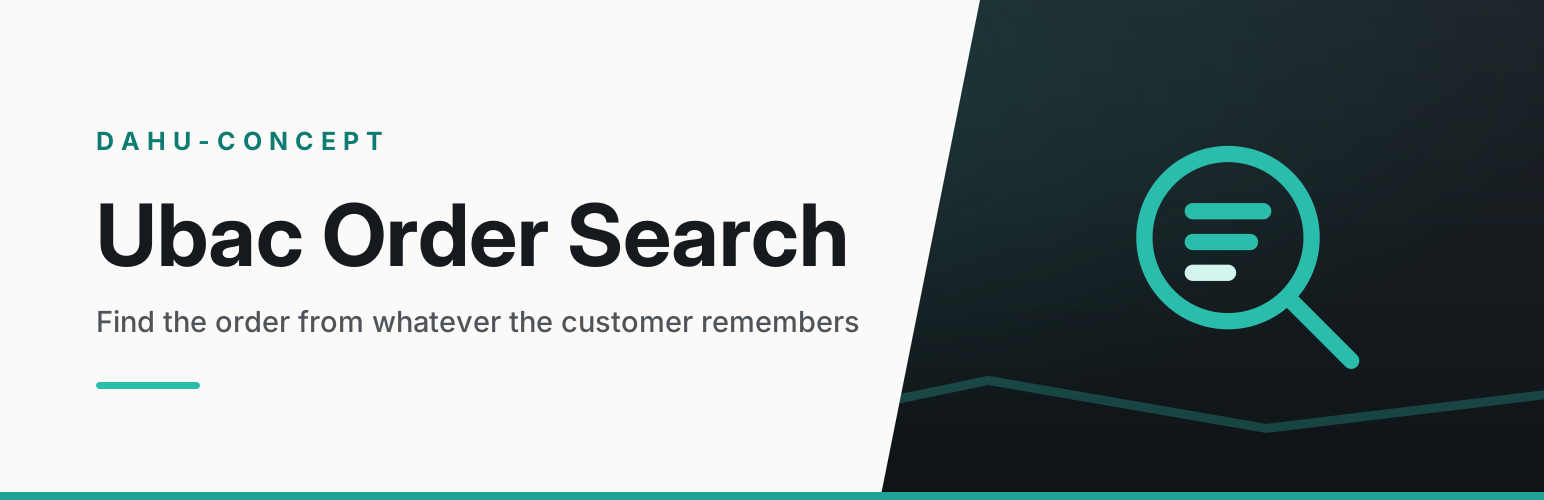
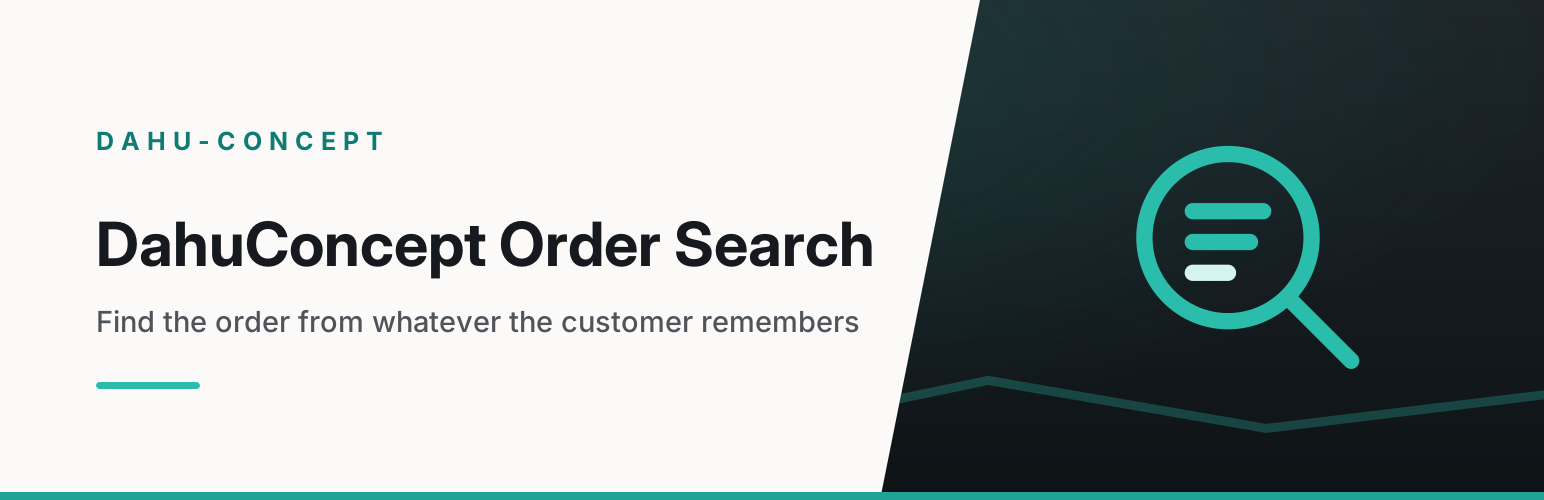
Become DahuConcept: slug, display name and text domain
The directory refused "Dahu" as a leading name because the term is shared,
then refused "Ubac" because it belongs to someone else. Both refusals ask
the same question — can you prove this term is yours? — and the only
answer that holds is the registered company name, which is also the
wordpress.org account that submits these plugins. Measured on TMview in
exact match: dahuconcept, zero records, against 252 for ubac and 122 for
dahu. All fifteen target slugs are free in the directory.

The slug is now exactly what the display name derives, for every one of
the fifteen. Twelve of them had a shorter slug than their name produced,
which meant twelve manual permalink requests and twelve chances for
another round trip. There are none left.

Changed: display name, slug, text domain, the language files and their
Project-Id-Version, the readme title, the artwork, and the folder.

NOT changed, deliberately: class and function prefixes, option names,
admin page slugs, asset handles, CSS classes, REST namespaces, the Action
Scheduler group and the "source" value this plugin writes into Stripe
metadata. Those are internal or persisted identifiers; the directory's
guideline 17 does not reach them, and renaming them would have broken
in-flight payments and live stylesheets for nothing. The text domain was
replaced by TOKEN POSITION rather than by string, because the old slug is
also an option name and an admin page slug.
[…]

Changed region(s): [[0.0622, 0.39, 0.5907, 0.54]]

diff --git a/includes/class-ubac-search-settings.php b/includes/class-ubac-search-settings.php
@@ -34,7 +34,7 @@ class Ubac_Search_Settings {
 			$toggles[ $id ] = $source['label'];
 		}
 
-		$toggles['linked_orders'] = __( 'Linked orders — also show orders whose meta points at a found order, and the orders a found order points at (returns, replacements, renewals)', 'ubac-search' );
+		$toggles['linked_orders'] = __( 'Linked orders — also show orders whose meta points at a found order, and the orders a found order points at (returns, replacements, renewals)', 'dahuconcept-order-search' );
 
 		return $toggles;
 	}
@@ -181,8 +181,8 @@ class Ubac_Search_Settings {
 	public static function register_page() {
 		add_submenu_page(
 			'woocommerce',
-			__( 'Order search', 'ubac-search' ),
-			__( 'Order search', 'ubac-search' ),
+			__( 'Order search', 'dahuconcept-order-search' ),
+			__( 'Order search', 'dahuconcept-order-search' ),
 			self::CAPABILITY,
 			UBAC_SEARCH_PAGE,
 			array( __CLASS__, 'render_page' )
@@ -235,7 +235,7 @@ class Ubac_Search_Settings {
 	 */
 	public static function render_page() {
 		if ( ! current_user_can( self::CAPABILITY ) ) {
-			wp_die( esc_html__( 'You do not have permission to change these settings.', 'ubac-search' ) );
+			wp_die( esc_html__( 'You do not have permission to change these settings.', 'dahuconcept-order-search' ) );
 		}
 
 		$settings = self::get();
@@ -243,8 +243,8 @@ class Ubac_Search_Settings {
 		?>
 		<div class="wrap ubac-ui">
 			<div class="ubac-ui-head">
-				<h1 class="ubac-ui-head__title"><?php esc_html_e( 'Order search', 'ubac-search' ); ?></h1>
-				<p class="ubac-ui-head__sub"><?php esc_html_e( 'Finds an order by what the customer tells you on the telephone.', 'ubac-search' ); ?></p>
+				<h1 class="ubac-ui-head__title"><?php esc_html_e( 'Order search', 'dahuconcept-order-search' ); ?></h1>
+				<p class="ubac-ui-head__sub"><?php esc_html_e( 'Finds an order by what the customer tells you on the telephone.', 'dahuconcept-order-search' ); ?></p>
 			</div>
 
 			<?php
@@ -264,10 +264,10 @@ class Ubac_Search_Settings {
 				<div class="ubac-ui-card">
 				<table class="form-table" role="presentation">
 					<tr>
-						<th scope="row"><?php esc_html_e( 'Sources', 'ubac-search' ); ?></th>
+						<th scope="row"><?php esc_html_e( 'Sources', 'dahuconcept-order-search' ); ?></th>
 						<td>
 							<fieldset>
-								<legend class="screen-reader-text"><?php esc_html_e( 'Sources', 'ubac-search' ); ?></legend>
+								<legend class="screen-reader-text"><?php esc_html_e( 'Sources', 'dahuconcept-order-search' ); ?></legend>
 								<?php foreach ( self::toggles() as $key => $label ) : ?>
 									<label class="ubac-search__check">
 										<input type="checkbox" name="<?php echo esc_attr( $name ); ?>[sources][<?php echo esc_attr( $key ); ?>]" value="1" <?php checked( ! empty( $settings['sources'][ $key ] ) ); ?> />
@@ -279,53 +279,53 @@ class Ubac_Search_Settings {
 					</tr>
 
 					<tr>
-						<th scope="row"><label for="ubac-search-order-meta"><?php esc_html_e( 'Order meta keys', 'ubac-search' ); ?></label></th>
+						<th scope="row"><label for="ubac-search-order-meta"><?php esc_html_e( 'Order meta keys', 'dahuconcept-order-search' ); ?></label></th>
 						<td>
 							<textarea id="ubac-search-order-meta" name="<?php echo esc_attr( $name ); ?>[order_meta_keys]" rows="4" class="large-text code"><?php echo esc_textarea( $settings['order_meta_keys'] ); ?></textarea>
 							<p class="description">
-								<?php esc_html_e( 'One key per line. A tracking number, an invoice number, a reference from another system — anything stored on the order that somebody might search for.', 'ubac-search' ); ?>
-								<?php esc_html_e( 'To find the key a value is stored under, open an order and look at its custom fields.', 'ubac-search' ); ?>
+								<?php esc_html_e( 'One key per line. A tracking number, an invoice number, a reference from another system — anything stored on the order that somebody might search for.', 'dahuconcept-order-search' ); ?>
+								<?php esc_html_e( 'To find the key a value is stored under, open an order and look at its custom fields.', 'dahuconcept-order-search' ); ?>
 							</p>
 						</td>
 					</tr>
 
 					<tr>
-						<th scope="row"><label for="ubac-search-item-meta"><?php esc_html_e( 'Order line meta keys', 'ubac-search' ); ?></label></th>
+						<th scope="row"><label for="ubac-search-item-meta"><?php esc_html_e( 'Order line meta keys', 'dahuconcept-order-search' ); ?></label></th>
 						<td>
 							<textarea id="ubac-search-item-meta" name="<?php echo esc_attr( $name ); ?>[item_meta_keys]" rows="3" class="large-text code"><?php echo esc_textarea( $settings['item_meta_keys'] ); ?></textarea>
 							<p class="description">
-								<?php esc_html_e( 'One key per line. A single asterisk means every visible line meta — the internal ones are always skipped, because they hold bare numbers that would make any number match half the shop.', 'ubac-search' ); ?>
+								<?php esc_html_e( 'One key per line. A single asterisk means every visible line meta — the internal ones are always skipped, because they hold bare numbers that would make any number match half the shop.', 'dahuconcept-order-search' ); ?>
 							</p>
 						</td>
 					</tr>
 
 					<tr>
-						<th scope="row"><label for="ubac-search-link-meta"><?php esc_html_e( 'Linked order meta keys', 'ubac-search' ); ?></label></th>
+						<th scope="row"><label for="ubac-search-link-meta"><?php esc_html_e( 'Linked order meta keys', 'dahuconcept-order-search' ); ?></label></th>
 						<td>
 							<textarea id="ubac-search-link-meta" name="<?php echo esc_attr( $name ); ?>[link_meta_keys]" rows="3" class="large-text code"><?php echo esc_textarea( $settings['link_meta_keys'] ); ?></textarea>
 							<p class="description">
-								<?php esc_html_e( 'One key per line. Keys whose value is another order\'s number. Both directions are followed, because only one of them is ever stored.', 'ubac-search' ); ?>
+								<?php esc_html_e( 'One key per line. Keys whose value is another order\'s number. Both directions are followed, because only one of them is ever stored.', 'dahuconcept-order-search' ); ?>
 							</p>
 						</td>
 					</tr>
 
 					<tr>
-						<th scope="row"><label for="ubac-search-min"><?php esc_html_e( 'Shortest search term', 'ubac-search' ); ?></label></th>
+						<th scope="row"><label for="ubac-search-min"><?php esc_html_e( 'Shortest search term', 'dahuconcept-order-search' ); ?></label></th>
 						<td>
 							<input id="ubac-search-min" type="number" min="2" max="20" name="<?php echo esc_attr( $name ); ?>[min_length]" value="<?php echo esc_attr( (string) $settings['min_length'] ); ?>" class="small-text" />
-							<p class="description"><?php esc_html_e( 'Below this many characters the extra sources do not run, and the native search is left to answer on its own.', 'ubac-search' ); ?></p>
+							<p class="description"><?php esc_html_e( 'Below this many characters the extra sources do not run, and the native search is left to answer on its own.', 'dahuconcept-order-search' ); ?></p>
 						</td>
 					</tr>
 
 					<tr>
-						<th scope="row"><?php esc_html_e( 'WooCommerce correction', 'ubac-search' ); ?></th>
+						<th scope="row"><?php esc_html_e( 'WooCommerce correction', 'dahuconcept-order-search' ); ?></th>
 						<td>
 							<label class="ubac-search__check">
 								<input type="checkbox" name="<?php echo esc_attr( $name ); ?>[fix_order_id_filter]" value="1" <?php checked( ! empty( $settings['fix_order_id_filter'] ) ); ?> />
-								<?php esc_html_e( 'Return nothing when the "Order ID" filter is used with text that is not a number', 'ubac-search' ); ?>
+								<?php esc_html_e( 'Return nothing when the "Order ID" filter is used with text that is not a number', 'dahuconcept-order-search' ); ?>
 							</label>
 							<p class="description ubac-search__caution">
-								<?php esc_html_e( 'Left alone, WooCommerce shows every order in the shop instead, which reads as a search that stopped working. Switch this off to get WooCommerce\'s own behaviour back.', 'ubac-search' ); ?>
+								<?php esc_html_e( 'Left alone, WooCommerce shows every order in the shop instead, which reads as a search that stopped working. Switch this off to get WooCommerce\'s own behaviour back.', 'dahuconcept-order-search' ); ?>
 							</p>
 						</td>
 					</tr>

diff --git a/dahuconcept-order-search.php b/dahuconcept-order-search.php
@@ -1,13 +1,13 @@
 <?php
 /**
- * Plugin Name:       Ubac Order Search
+ * Plugin Name:       DahuConcept Order Search
  * Description:       Finds the orders WooCommerce's own search misses: a company name on a B2B order with no customer name, a phone number, an order note, a tracking or invoice number held in order meta, a value on an order line. Results are added to the native search, never substituted for it, and ranked by how well they match. Other plugins can register sources of their own.
  * Version:           1.1.3
  * Author:            Hugo Vial-Jaime
  * Author URI:        https://dahu-concept.fr
  * License:           MIT
  * License URI:       https://opensource.org/licenses/MIT
- * Text Domain:       ubac-search
+ * Text Domain:       dahuconcept-order-search
  * Domain Path:       /languages
  * Requires at least: 6.2
  * Requires PHP:      7.4
@@ -90,7 +90,7 @@ add_action(
 
 					printf(
 						'<div class="notice notice-warning"><p>%s</p></div>',
-						esc_html__( 'Ubac Order Search needs WooCommerce. It is doing nothing until WooCommerce is active.', 'ubac-search' )
+						esc_html__( 'DahuConcept Order Search needs WooCommerce. It is doing nothing until WooCommerce is active.', 'dahuconcept-order-search' )
 					);
 				}
 			);
@@ -123,7 +123,7 @@ add_filter(
 			sprintf(
 				'<a href="%s">%s</a>',
 				esc_url( admin_url( 'admin.php?page=' . UBAC_SEARCH_PAGE ) ),
-				esc_html__( 'Settings', 'ubac-search' )
+				esc_html__( 'Settings', 'dahuconcept-order-search' )
 			)
 		);
 
@@ -158,8 +158,8 @@ add_action(
 		Ubac_Welcome::register(
 			array(
 				'slug'       => 'ubac-search',
-				'name'       => __( 'Order search', 'ubac-search' ),
-				'tagline'    => __( 'Finds an order by what the customer tells you on the telephone.', 'ubac-search' ),
+				'name'       => __( 'Order search', 'dahuconcept-order-search' ),
+				'tagline'    => __( 'Finds an order by what the customer tells you on the telephone.', 'dahuconcept-order-search' ),
 				'file'       => UBAC_SEARCH_FILE,
 				'version'    => UBAC_SEARCH_VERSION,
 				'textdomain' => 'ubac-search',
@@ -178,24 +178,24 @@ add_action(
 				 * no text domain of its own.
 				 */
 				'strings'    => array(
-					'next'   => __( 'Next', 'ubac-search' ),
-					'done'   => __( 'Done', 'ubac-search' ),
-					'skip'   => __( 'Skip', 'ubac-search' ),
-					'of'     => __( 'of', 'ubac-search' ),
-					'denied' => __( 'You are not allowed to view this page.', 'ubac-search' ),
+					'next'   => __( 'Next', 'dahuconcept-order-search' ),
+					'done'   => __( 'Done', 'dahuconcept-order-search' ),
+					'skip'   => __( 'Skip', 'dahuconcept-order-search' ),
+					'of'     => __( 'of', 'dahuconcept-order-search' ),
+					'denied' => __( 'You are not allowed to view this page.', 'dahuconcept-order-search' ),
 				),
 				'points'     => array(
 				array(
-					'title' => __( 'Any detail', 'ubac-search' ),
-					'text'  => __( 'A surname, part of an address, a telephone number, a serial.', 'ubac-search' ),
+					'title' => __( 'Any detail', 'dahuconcept-order-search' ),
+					'text'  => __( 'A surname, part of an address, a telephone number, a serial.', 'dahuconcept-order-search' ),
 				),
 				array(
-					'title' => __( 'Both stores', 'ubac-search' ),
-					'text'  => __( 'Works whichever order storage the shop is on.', 'ubac-search' ),
+					'title' => __( 'Both stores', 'dahuconcept-order-search' ),
+					'text'  => __( 'Works whichever order storage the shop is on.', 'dahuconcept-order-search' ),
 				),
 				array(
-					'title' => __( 'Fast where it matters', 'ubac-search' ),
-					'text'  => __( 'Built for somebody with a customer waiting.', 'ubac-search' ),
+					'title' => __( 'Fast where it matters', 'dahuconcept-order-search' ),
+					'text'  => __( 'Built for somebody with a customer waiting.', 'dahuconcept-order-search' ),
 				),
 				),
 
@@ -209,18 +209,18 @@ add_action(
 				'tour'        => array(
 					array(
 						'selector' => '.ubac-ui-card',
-						'title'    => __( 'Added, never replaced', 'ubac-search' ),
-						'text'     => __( 'Extra sources add to the native search results.', 'ubac-search' ),
+						'title'    => __( 'Added, never replaced', 'dahuconcept-order-search' ),
+						'text'     => __( 'Extra sources add to the native search results.', 'dahuconcept-order-search' ),
 					),
 					array(
 						'selector' => '#ubac-search-order-meta',
-						'title'    => __( 'Add your own keys', 'ubac-search' ),
-						'text'     => __( 'One order meta key per line, such as a tracking number.', 'ubac-search' ),
+						'title'    => __( 'Add your own keys', 'dahuconcept-order-search' ),
+						'text'     => __( 'One order meta key per line, such as a tracking number.', 'dahuconcept-order-search' ),
 					),
 					array(
 						'selector' => '#ubac-search-min',
-						'title'    => __( 'Shortest term', 'ubac-search' ),
-						'text'     => __( 'Below this length, only the native search answers.', 'ubac-search' ),
+						'title'    => __( 'Shortest term', 'dahuconcept-order-search' ),
+						'text'     => __( 'Below this length, only the native search answers.', 'dahuconcept-order-search' ),
 					),
 				),
 			)

diff --git a/includes/class-ubac-search-sources.php b/includes/class-ubac-search-sources.php
@@ -71,22 +71,22 @@ class Ubac_Search_Sources {
 	public static function registered() {
 		$sources = array(
 			'addresses'  => array(
-				'label'    => __( 'Customer — company, phone, email, name, street, town, postcode, on both the billing and the shipping address', 'ubac-search' ),
+				'label'    => __( 'Customer — company, phone, email, name, street, town, postcode, on both the billing and the shipping address', 'dahuconcept-order-search' ),
 				'callback' => array( __CLASS__, 'addresses' ),
 				'rank'     => Ubac_Search_Results::RANK_ADDRESS,
 			),
 			'order_meta' => array(
-				'label'    => __( 'Order meta — the keys listed below (tracking number, invoice number, external reference…)', 'ubac-search' ),
+				'label'    => __( 'Order meta — the keys listed below (tracking number, invoice number, external reference…)', 'dahuconcept-order-search' ),
 				'callback' => array( __CLASS__, 'order_meta' ),
 				'rank'     => Ubac_Search_Results::RANK_META,
 			),
 			'item_meta'  => array(
-				'label'    => __( 'Order line meta — the keys listed below (a serial number typed on a line, an engraving, a size)', 'ubac-search' ),
+				'label'    => __( 'Order line meta — the keys listed below (a serial number typed on a line, an engraving, a size)', 'dahuconcept-order-search' ),
 				'callback' => array( __CLASS__, 'item_meta' ),
 				'rank'     => Ubac_Search_Results::RANK_META,
 			),
 			'notes'      => array(
-				'label'    => __( 'Order notes', 'ubac-search' ),
+				'label'    => __( 'Order notes', 'dahuconcept-order-search' ),
 				'callback' => array( __CLASS__, 'notes' ),
 				'rank'     => Ubac_Search_Results::RANK_NOTE,
 			),
@@ -270,9 +270,9 @@ class Ubac_Search_Sources {
 				(int) $row['order_id'],
 				'shipping' === $row['address_type']
 					/* translators: %s: customer or company name. */
-					? sprintf( __( 'Shipping address: %s', 'ubac-search' ), $who )
+					? sprintf( __( 'Shipping address: %s', 'dahuconcept-order-search' ), $who )
 					/* translators: %s: customer or company name. */
-					: sprintf( __( 'Billing address: %s', 'ubac-search' ), $who ),
+					: sprintf( __( 'Billing address: %s', 'dahuconcept-order-search' ), $who ),
 				$exact ? Ubac_Search_Results::RANK_EXACT : Ubac_Search_Results::RANK_ADDRESS
 			);
 		}
@@ -477,7 +477,7 @@ class Ubac_Search_Sources {
 				$found,
 				(int) $row['order_id'],
 				/* translators: 1: meta key, 2: the matching value. */
-				sprintf( __( 'Order meta %1$s: %2$s', 'ubac-search' ), $row['meta_key'], self::excerpt( $row['meta_value'], $term ) ),
+				sprintf( __( 'Order meta %1$s: %2$s', 'dahuconcept-order-search' ), $row['meta_key'], self::excerpt( $row['meta_value'], $term ) ),
 				Ubac_Search_Results::RANK_META
 			);
 		}
@@ -538,7 +538,7 @@ class Ubac_Search_Sources {
 				$found,
 				(int) $row['order_id'],
 				/* translators: 1: meta key, 2: the matching value. */
-				sprintf( __( 'Order line %1$s: %2$s', 'ubac-search' ), $row['meta_key'], self::excerpt( $row['meta_value'], $term ) ),
+				sprintf( __( 'Order line %1$s: %2$s', 'dahuconcept-order-search' ), $row['meta_key'], self::excerpt( $row['meta_value'], $term ) ),
 				Ubac_Search_Results::RANK_META
 			);
 		}
@@ -581,7 +581,7 @@ class Ubac_Search_Sources {
 				(int) $row['order_id'],
 				sprintf(
 					/* translators: 1: date, 2: an excerpt of the note. */
-					__( 'Note of %1$s: %2$s', 'ubac-search' ),
+					__( 'Note of %1$s: %2$s', 'dahuconcept-order-search' ),
 					date_i18n( get_option( 'date_format' ), (int) mysql2date( 'U', $row['comment_date'] ) ),
 					self::excerpt( $row['comment_content'], $term )
 				),
@@ -650,7 +650,7 @@ class Ubac_Search_Sources {
 				$found,
 				(int) $row['order_id'],
 				/* translators: %d: the order this one is linked to. */
-				sprintf( __( 'Linked to order #%d', 'ubac-search' ), (int) $row['meta_value'] ),
+				sprintf( __( 'Linked to order #%d', 'dahuconcept-order-search' ), (int) $row['meta_value'] ),
 				Ubac_Search_Results::RANK_LINKED
 			);
 		}
@@ -679,7 +679,7 @@ class Ubac_Search_Sources {
 				$found,
 				$target,
 				/* translators: %d: the order that links to this one. */
-				sprintf( __( 'Linked from order #%d', 'ubac-search' ), (int) $row['order_id'] ),
+				sprintf( __( 'Linked from order #%d', 'dahuconcept-order-search' ), (int) $row['order_id'] ),
 				Ubac_Search_Results::RANK_LINKED
 			);
 		}

diff --git a/uninstall.php b/uninstall.php
@@ -27,13 +27,23 @@ if ( is_multisite() ) {
 		switch_to_blog( (int) $ubac_search_site_id );
 		delete_option( 'ubac_search_settings' );
 		delete_option( 'ubac_welcome_seen_ubac-search' );
+		// Les memes clefs sous le nouveau slug : elle est construite au runtime
+		// a partir du slug, donc elle a change avec lui. Sans ces trois lignes,
+		// une mise a jour depuis la version Ubac laisse des orphelines que plus
+		// rien ne nomme.
+		delete_option( 'ubac_welcome_seen_dahuconcept-order-search' );
 		delete_option( 'ubac_welcome_pending_ubac-search' );
+		delete_option( 'ubac_welcome_pending_dahuconcept-order-search' );
 		delete_option( 'ubac_welcome_tour_ubac-search' );
+		delete_option( 'ubac_welcome_tour_dahuconcept-order-search' );
 		restore_current_blog();
 	}
 } else {
 	delete_option( 'ubac_search_settings' );
 	delete_option( 'ubac_welcome_seen_ubac-search' );
+	delete_option( 'ubac_welcome_seen_dahuconcept-order-search' );
 	delete_option( 'ubac_welcome_pending_ubac-search' );
+	delete_option( 'ubac_welcome_pending_dahuconcept-order-search' );
 	delete_option( 'ubac_welcome_tour_ubac-search' );
+	delete_option( 'ubac_welcome_tour_dahuconcept-order-search' );
 }

diff --git a/docs/README.fr.md b/docs/README.fr.md
@@ -1,4 +1,4 @@
-# Ubac Order Search
+# DahuConcept Order Search
 
 Trouve les commandes que la recherche de WooCommerce rate, et les ajoute aux
 résultats que vous obtenez déjà.

diff --git a/README.md b/README.md
@@ -1,4 +1,4 @@
-# Ubac Order Search
+# DahuConcept Order Search
 
 Finds the orders WooCommerce's own search misses, and adds them to the results you already get.
 
